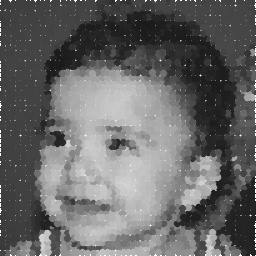
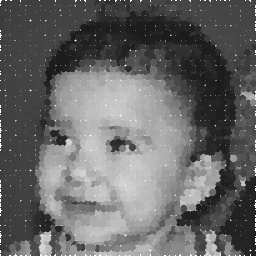
exercicio 8

diff --git a/exercicios/8/nova.cpp b/exercicios/8/nova.cpp
@@ -11,9 +11,9 @@
 using namespace std;
 using namespace cv;
 
-#define STEP 5
+#define STEP 1
 #define JITTER 3
-#define RAIO 3
+#define RAIO 1
 
 int top_slider = 10;
 int top_slider_max = 200;
@@ -78,30 +78,31 @@ int main(int argc, char** argv){
       x = i+rand()%(2*JITTER)-JITTER+1;
       y = j+rand()%(2*JITTER)-JITTER+1;
       gray = image.at<uchar>(x,y);
-      // x = i;
-      // y = j;
-      if(border.at<uchar>(x,y) == 255)
-      {
         circle(points,
              cv::Point(y,x),
-             RAIO/3,
-             CV_RGB(gray,gray,gray),
-             -1,
-             CV_AA);
-      }
-      else
-      {
-        circle(points,
-             cv::Point(y,x),
-              RAIO,
+              RAIO+2,
              CV_RGB(gray,gray,gray),
              -1,
              CV_AA);
       }
     }
-  }
+    for(auto i : xrange){
+      for(auto j : yrange){
+        x = i+rand()%(2*JITTER)-JITTER+1;
+        y = j+rand()%(2*JITTER)-JITTER+1;
+        gray = image.at<uchar>(x,y);
+        if(border.at<uchar>(x,y) == 255)
+        {
+          circle(points,
+              cv::Point(y,x),
+              RAIO,
+              CV_RGB(gray,gray,gray),
+              -1,
+              CV_AA);
+        }
+      }
+    }
 
-
-  imwrite("pontos.jpg", points);
+  imwrite("pontos_nova.jpg", points);
   return 0;
 }

diff --git a/README.md b/README.md
@@ -966,6 +966,24 @@ Usando esse vídeo como entrada, obtivemos o seguinte vídeo de saída:
 ## Exercícios 7
 
 ## Exercícios 8
+
+####    Utilizando os programas exemplos/canny.cpp e exemplos/pontilhismo.cpp como referência, implementamos um programa nova.cpp. Cuja a idéia é utilizar as bordas produzidas pelo algoritmo de Canny para suavizar as bordas da minha imagem pontilhista gerada. O Programa nova.cpp efetua pontos maiores para toda a região da imagem, após isso utilizamos o resultado do Canny para indentificar as bordas e efetuar pontos de raios menores, deixando assim a imagem com borda mais suave.
+
+A imagem para exemplificar:
+[![exe9](https://raw.githubusercontent.com/mcarujo/mcarujo.github.io/master/exercicios/8/biel.png)](https://github.com/mcarujo/mcarujo.github.io/blob/master/exercicios/8/biel.png)
+
+
+Resultado do algoritmo de Canny(canny.cpp):
+[![exe9](https://raw.githubusercontent.com/mcarujo/mcarujo.github.io/master/exercicios/8/canny.png)](https://github.com/mcarujo/mcarujo.github.io/blob/master/exercicios/8/canny.png)
+
+
+Resultado do pontilhismo.cpp:
+[![exe9](https://raw.githubusercontent.com/mcarujo/mcarujo.github.io/master/exercicios/8/pontos.jpeg)](https://github.com/mcarujo/mcarujo.github.io/blob/master/exercicios/8/pontos.jpeg)
+
+
+Resultado da combinação de Canny com o pontilhismo.cpp (nova.cpp):
+[![exe9](https://raw.githubusercontent.com/mcarujo/mcarujo.github.io/master/exercicios/8/pontos_nova.jpeg)](https://github.com/mcarujo/mcarujo.github.io/blob/master/exercicios/8/pontos_nova.jpeg)
+
 ```c++
 #include <iostream>
 #include <opencv2/opencv.hpp>
@@ -980,9 +998,9 @@ Usando esse vídeo como entrada, obtivemos o seguinte vídeo de saída:
 using namespace std;
 using namespace cv;
 
-#define STEP 5
+#define STEP 1
 #define JITTER 3
-#define RAIO 3
+#define RAIO 1
 
 int top_slider = 10;
 int top_slider_max = 200;
@@ -1047,31 +1065,32 @@ int main(int argc, char** argv){
       x = i+rand()%(2*JITTER)-JITTER+1;
       y = j+rand()%(2*JITTER)-JITTER+1;
       gray = image.at<uchar>(x,y);
-      // x = i;
-      // y = j;
-      if(border.at<uchar>(x,y) == 255)
-      {
         circle(points,
              cv::Point(y,x),
-             RAIO/3,
-             CV_RGB(gray,gray,gray),
-             -1,
-             CV_AA);
-      }
-      else
-      {
-        circle(points,
-             cv::Point(y,x),
-              RAIO,
+              RAIO+2,
              CV_RGB(gray,gray,gray),
              -1,
              CV_AA);
       }
     }
-  }
+    for(auto i : xrange){
+      for(auto j : yrange){
+        x = i+rand()%(2*JITTER)-JITTER+1;
+        y = j+rand()%(2*JITTER)-JITTER+1;
+        gray = image.at<uchar>(x,y);
+        if(border.at<uchar>(x,y) == 255)
+        {
+          circle(points,
+              cv::Point(y,x),
+              RAIO,
+              CV_RGB(gray,gray,gray),
+              -1,
+              CV_AA);
+        }
+      }
+    }
 
-
-  imwrite("pontos.jpg", points);
+  imwrite("pontos_nova.jpg", points);
   return 0;
 }
 ```
